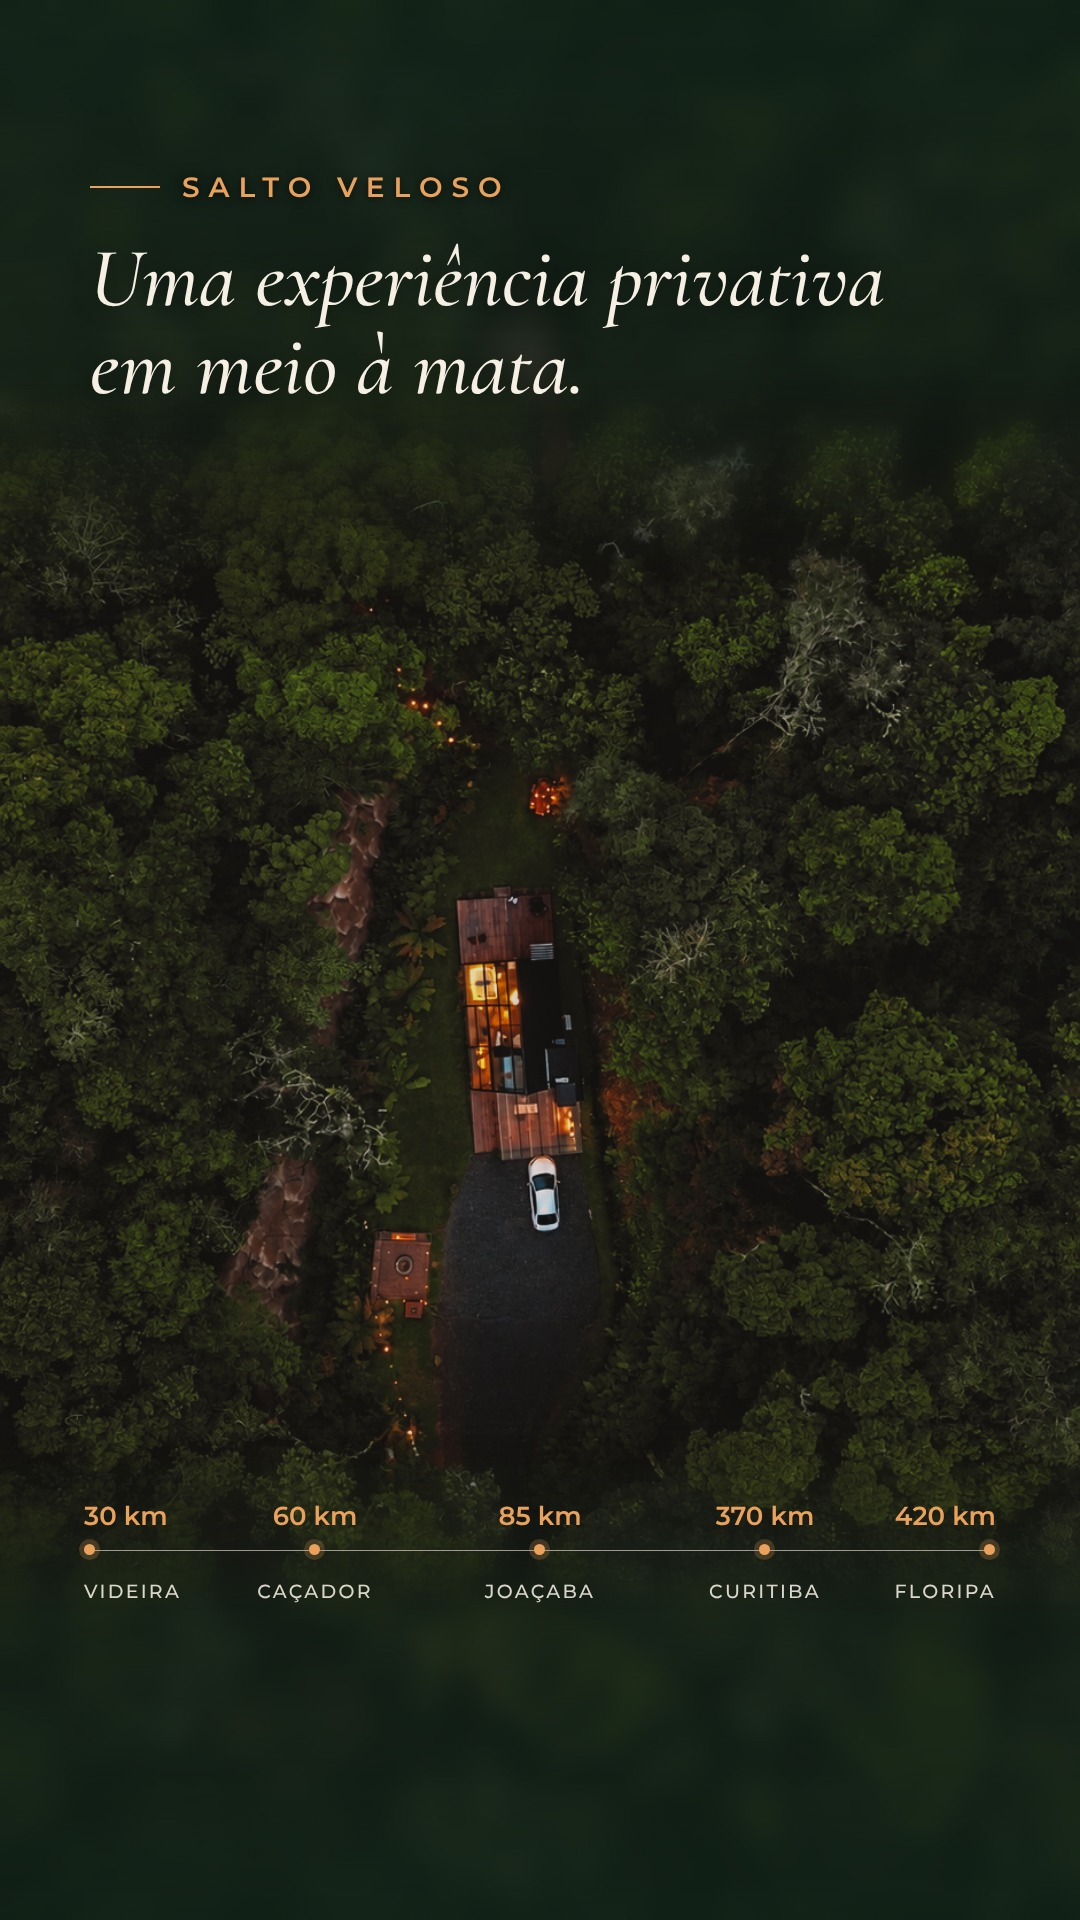
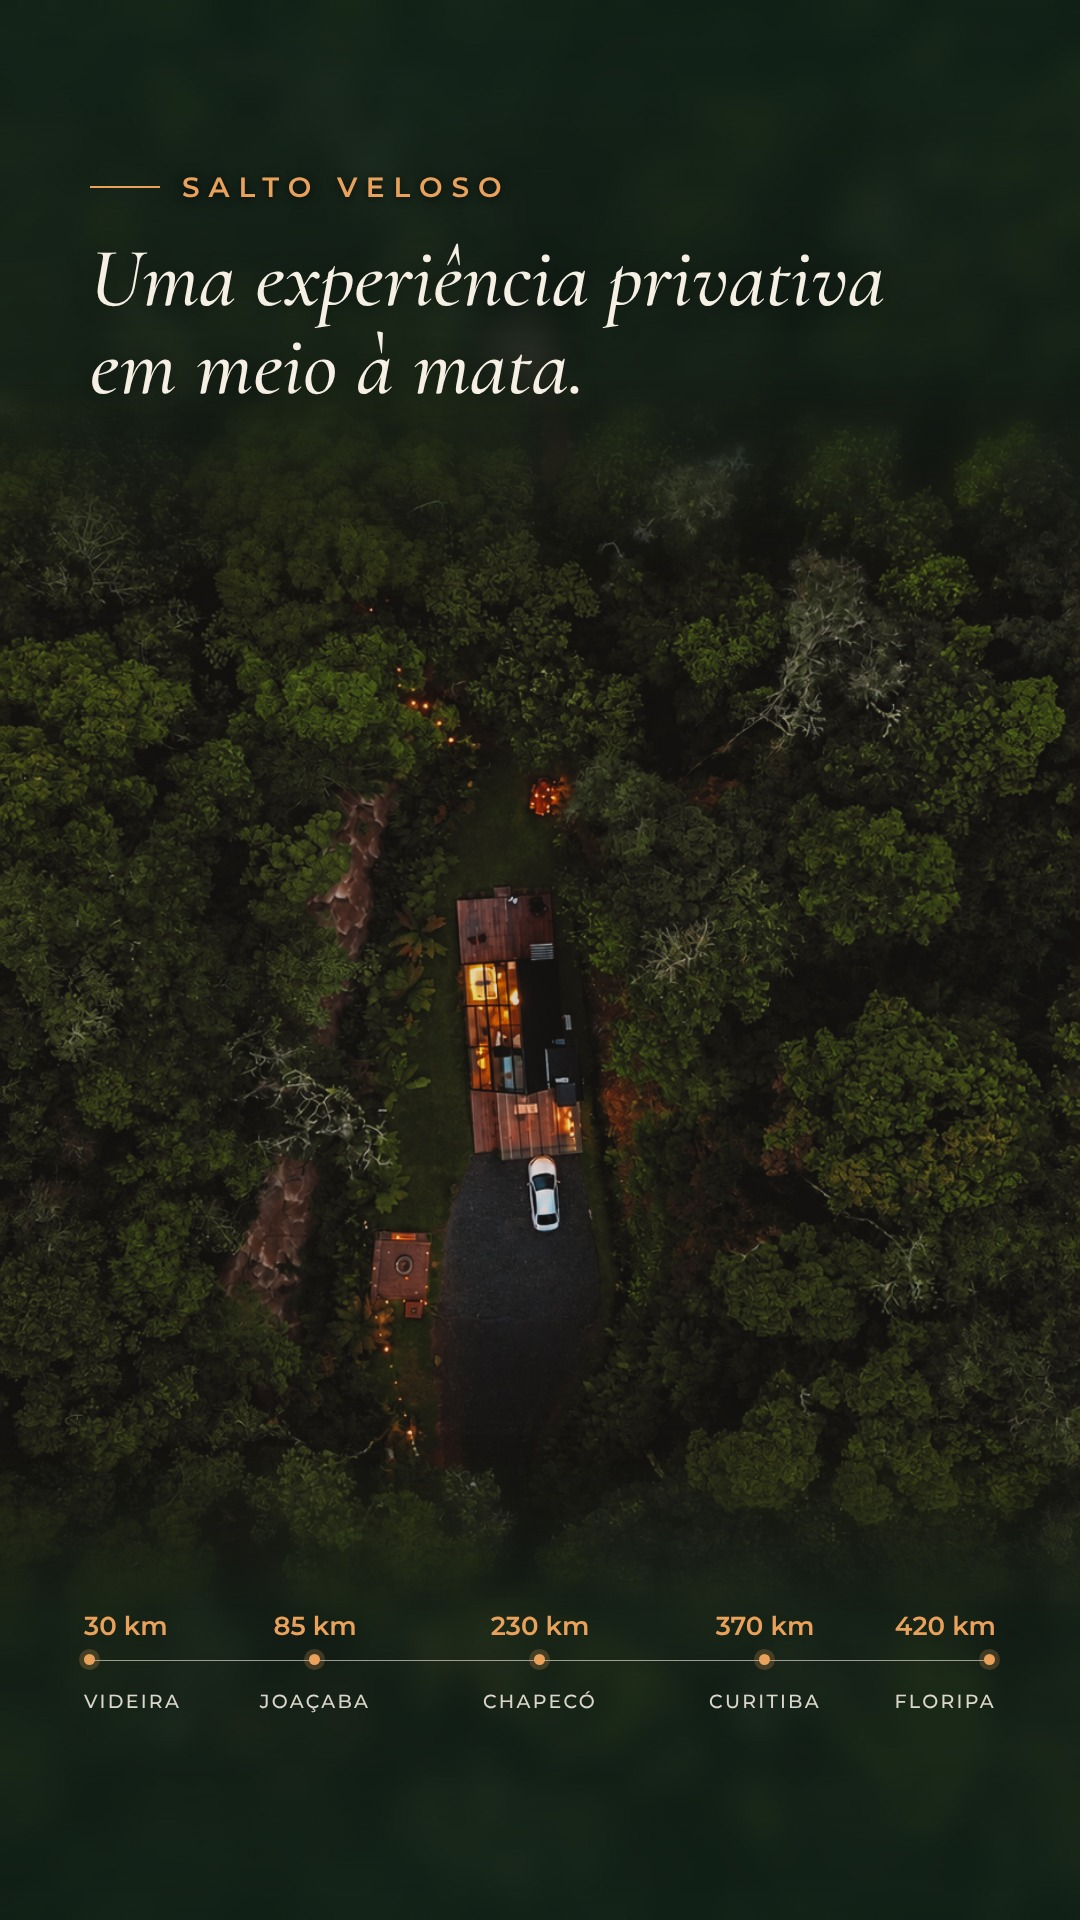
Story 1: Chapecó no lugar de Caçador e linha mais baixa
Claude-Session: https://claude.ai/code/session_01DGaSmMXhRVQXAQK6gDFrFo

diff --git a/stories-cabana/html/story-01.html b/stories-cabana/html/story-01.html
@@ -28,7 +28,7 @@ p { font-family:'Montserrat',sans-serif; font-weight:500; font-size:34px; line-h
 .cta { display:inline-flex; margin-top:38px; padding:22px 38px; border-radius:60px; background:#E9A15B;
   color:#1B140D; font-family:'Montserrat',sans-serif; font-weight:600; font-size:28px;
   letter-spacing:.14em; text-transform:uppercase; }
-.rodape { position:absolute; left:90px; right:90px; bottom:300px; color:#F6EFE4; height:120px; }
+.rodape { position:absolute; left:90px; right:90px; bottom:190px; color:#F6EFE4; height:120px; }
 .rodape .trilho { position:absolute; left:0; right:0; top:50px; height:1px; background:rgba(246,239,228,.6); }
 .rodape .pt { position:absolute; top:0; height:120px; font-family:'Montserrat',sans-serif; white-space:nowrap; }
 .rodape .pt::before { content:''; position:absolute; top:44px; left:-6px; width:11px; height:11px; border-radius:50%;
@@ -42,7 +42,7 @@ p { font-family:'Montserrat',sans-serif; font-weight:500; font-size:34px; line-h
   border-radius:10px; border:6px solid #F6EFE4; box-shadow:0 18px 50px rgba(0,0,0,.45); transform:rotate(-3deg); }
 </style></head><body>
 <img class="bg" src="file:///home/user/Jean-Radeski-/stories-cabana/fotos/drone.jpg" style="object-position:center;transform:translateY(0px)">
-<div class="blur low" style="height:500px"></div><div class="rodape"><div class="trilho"></div><div class="pt first" style="left:0.0%"><span class="km">30 km</span><span class="nome">Videira</span></div><div class="pt " style="left:25.0%"><span class="km">60 km</span><span class="nome">Caçador</span></div><div class="pt " style="left:50.0%"><span class="km">85 km</span><span class="nome">Joaçaba</span></div><div class="pt " style="left:75.0%"><span class="km">370 km</span><span class="nome">Curitiba</span></div><div class="pt last" style="left:100.0%"><span class="km">420 km</span><span class="nome">Floripa</span></div></div>
+<div class="blur low" style="height:500px"></div><div class="rodape"><div class="trilho"></div><div class="pt first" style="left:0.0%"><span class="km">30 km</span><span class="nome">Videira</span></div><div class="pt " style="left:25.0%"><span class="km">85 km</span><span class="nome">Joaçaba</span></div><div class="pt " style="left:50.0%"><span class="km">230 km</span><span class="nome">Chapecó</span></div><div class="pt " style="left:75.0%"><span class="km">370 km</span><span class="nome">Curitiba</span></div><div class="pt last" style="left:100.0%"><span class="km">420 km</span><span class="nome">Floripa</span></div></div>
 <div class="blur top" style="height:620px"></div>
 
 <div class="box top"><div class="kicker">Salto Veloso</div><h1>Uma experiência privativa<br>em meio à mata.</h1></div>

diff --git a/stories-cabana/html/story-02.html b/stories-cabana/html/story-02.html
@@ -28,7 +28,7 @@ p { font-family:'Montserrat',sans-serif; font-weight:500; font-size:34px; line-h
 .cta { display:inline-flex; margin-top:38px; padding:22px 38px; border-radius:60px; background:#E9A15B;
   color:#1B140D; font-family:'Montserrat',sans-serif; font-weight:600; font-size:28px;
   letter-spacing:.14em; text-transform:uppercase; }
-.rodape { position:absolute; left:90px; right:90px; bottom:300px; color:#F6EFE4; height:120px; }
+.rodape { position:absolute; left:90px; right:90px; bottom:190px; color:#F6EFE4; height:120px; }
 .rodape .trilho { position:absolute; left:0; right:0; top:50px; height:1px; background:rgba(246,239,228,.6); }
 .rodape .pt { position:absolute; top:0; height:120px; font-family:'Montserrat',sans-serif; white-space:nowrap; }
 .rodape .pt::before { content:''; position:absolute; top:44px; left:-6px; width:11px; height:11px; border-radius:50%;

diff --git a/stories-cabana/html/story-03.html b/stories-cabana/html/story-03.html
@@ -28,7 +28,7 @@ p { font-family:'Montserrat',sans-serif; font-weight:500; font-size:34px; line-h
 .cta { display:inline-flex; margin-top:38px; padding:22px 38px; border-radius:60px; background:#E9A15B;
   color:#1B140D; font-family:'Montserrat',sans-serif; font-weight:600; font-size:28px;
   letter-spacing:.14em; text-transform:uppercase; }
-.rodape { position:absolute; left:90px; right:90px; bottom:300px; color:#F6EFE4; height:120px; }
+.rodape { position:absolute; left:90px; right:90px; bottom:190px; color:#F6EFE4; height:120px; }
 .rodape .trilho { position:absolute; left:0; right:0; top:50px; height:1px; background:rgba(246,239,228,.6); }
 .rodape .pt { position:absolute; top:0; height:120px; font-family:'Montserrat',sans-serif; white-space:nowrap; }
 .rodape .pt::before { content:''; position:absolute; top:44px; left:-6px; width:11px; height:11px; border-radius:50%;

diff --git a/stories-cabana/html/story-04.html b/stories-cabana/html/story-04.html
@@ -28,7 +28,7 @@ p { font-family:'Montserrat',sans-serif; font-weight:500; font-size:34px; line-h
 .cta { display:inline-flex; margin-top:38px; padding:22px 38px; border-radius:60px; background:#E9A15B;
   color:#1B140D; font-family:'Montserrat',sans-serif; font-weight:600; font-size:28px;
   letter-spacing:.14em; text-transform:uppercase; }
-.rodape { position:absolute; left:90px; right:90px; bottom:300px; color:#F6EFE4; height:120px; }
+.rodape { position:absolute; left:90px; right:90px; bottom:190px; color:#F6EFE4; height:120px; }
 .rodape .trilho { position:absolute; left:0; right:0; top:50px; height:1px; background:rgba(246,239,228,.6); }
 .rodape .pt { position:absolute; top:0; height:120px; font-family:'Montserrat',sans-serif; white-space:nowrap; }
 .rodape .pt::before { content:''; position:absolute; top:44px; left:-6px; width:11px; height:11px; border-radius:50%;

diff --git a/stories-cabana/html/story-05.html b/stories-cabana/html/story-05.html
@@ -28,7 +28,7 @@ p { font-family:'Montserrat',sans-serif; font-weight:500; font-size:34px; line-h
 .cta { display:inline-flex; margin-top:38px; padding:22px 38px; border-radius:60px; background:#E9A15B;
   color:#1B140D; font-family:'Montserrat',sans-serif; font-weight:600; font-size:28px;
   letter-spacing:.14em; text-transform:uppercase; }
-.rodape { position:absolute; left:90px; right:90px; bottom:300px; color:#F6EFE4; height:120px; }
+.rodape { position:absolute; left:90px; right:90px; bottom:190px; color:#F6EFE4; height:120px; }
 .rodape .trilho { position:absolute; left:0; right:0; top:50px; height:1px; background:rgba(246,239,228,.6); }
 .rodape .pt { position:absolute; top:0; height:120px; font-family:'Montserrat',sans-serif; white-space:nowrap; }
 .rodape .pt::before { content:''; position:absolute; top:44px; left:-6px; width:11px; height:11px; border-radius:50%;

diff --git a/stories-cabana/html/story-06.html b/stories-cabana/html/story-06.html
@@ -28,7 +28,7 @@ p { font-family:'Montserrat',sans-serif; font-weight:500; font-size:34px; line-h
 .cta { display:inline-flex; margin-top:38px; padding:22px 38px; border-radius:60px; background:#E9A15B;
   color:#1B140D; font-family:'Montserrat',sans-serif; font-weight:600; font-size:28px;
   letter-spacing:.14em; text-transform:uppercase; }
-.rodape { position:absolute; left:90px; right:90px; bottom:300px; color:#F6EFE4; height:120px; }
+.rodape { position:absolute; left:90px; right:90px; bottom:190px; color:#F6EFE4; height:120px; }
 .rodape .trilho { position:absolute; left:0; right:0; top:50px; height:1px; background:rgba(246,239,228,.6); }
 .rodape .pt { position:absolute; top:0; height:120px; font-family:'Montserrat',sans-serif; white-space:nowrap; }
 .rodape .pt::before { content:''; position:absolute; top:44px; left:-6px; width:11px; height:11px; border-radius:50%;

diff --git a/stories-cabana/html/story-07.html b/stories-cabana/html/story-07.html
@@ -28,7 +28,7 @@ p { font-family:'Montserrat',sans-serif; font-weight:500; font-size:34px; line-h
 .cta { display:inline-flex; margin-top:38px; padding:22px 38px; border-radius:60px; background:#E9A15B;
   color:#1B140D; font-family:'Montserrat',sans-serif; font-weight:600; font-size:28px;
   letter-spacing:.14em; text-transform:uppercase; }
-.rodape { position:absolute; left:90px; right:90px; bottom:300px; color:#F6EFE4; height:120px; }
+.rodape { position:absolute; left:90px; right:90px; bottom:190px; color:#F6EFE4; height:120px; }
 .rodape .trilho { position:absolute; left:0; right:0; top:50px; height:1px; background:rgba(246,239,228,.6); }
 .rodape .pt { position:absolute; top:0; height:120px; font-family:'Montserrat',sans-serif; white-space:nowrap; }
 .rodape .pt::before { content:''; position:absolute; top:44px; left:-6px; width:11px; height:11px; border-radius:50%;

diff --git a/stories-cabana/html/story-08.html b/stories-cabana/html/story-08.html
@@ -28,7 +28,7 @@ p { font-family:'Montserrat',sans-serif; font-weight:500; font-size:34px; line-h
 .cta { display:inline-flex; margin-top:38px; padding:22px 38px; border-radius:60px; background:#E9A15B;
   color:#1B140D; font-family:'Montserrat',sans-serif; font-weight:600; font-size:28px;
   letter-spacing:.14em; text-transform:uppercase; }
-.rodape { position:absolute; left:90px; right:90px; bottom:300px; color:#F6EFE4; height:120px; }
+.rodape { position:absolute; left:90px; right:90px; bottom:190px; color:#F6EFE4; height:120px; }
 .rodape .trilho { position:absolute; left:0; right:0; top:50px; height:1px; background:rgba(246,239,228,.6); }
 .rodape .pt { position:absolute; top:0; height:120px; font-family:'Montserrat',sans-serif; white-space:nowrap; }
 .rodape .pt::before { content:''; position:absolute; top:44px; left:-6px; width:11px; height:11px; border-radius:50%;

diff --git a/stories-cabana/html/story-09.html b/stories-cabana/html/story-09.html
@@ -28,7 +28,7 @@ p { font-family:'Montserrat',sans-serif; font-weight:500; font-size:34px; line-h
 .cta { display:inline-flex; margin-top:38px; padding:22px 38px; border-radius:60px; background:#E9A15B;
   color:#1B140D; font-family:'Montserrat',sans-serif; font-weight:600; font-size:28px;
   letter-spacing:.14em; text-transform:uppercase; }
-.rodape { position:absolute; left:90px; right:90px; bottom:300px; color:#F6EFE4; height:120px; }
+.rodape { position:absolute; left:90px; right:90px; bottom:190px; color:#F6EFE4; height:120px; }
 .rodape .trilho { position:absolute; left:0; right:0; top:50px; height:1px; background:rgba(246,239,228,.6); }
 .rodape .pt { position:absolute; top:0; height:120px; font-family:'Montserrat',sans-serif; white-space:nowrap; }
 .rodape .pt::before { content:''; position:absolute; top:44px; left:-6px; width:11px; height:11px; border-radius:50%;

diff --git a/stories-cabana/html/story-10.html b/stories-cabana/html/story-10.html
@@ -28,7 +28,7 @@ p { font-family:'Montserrat',sans-serif; font-weight:500; font-size:34px; line-h
 .cta { display:inline-flex; margin-top:38px; padding:22px 38px; border-radius:60px; background:#E9A15B;
   color:#1B140D; font-family:'Montserrat',sans-serif; font-weight:600; font-size:28px;
   letter-spacing:.14em; text-transform:uppercase; }
-.rodape { position:absolute; left:90px; right:90px; bottom:300px; color:#F6EFE4; height:120px; }
+.rodape { position:absolute; left:90px; right:90px; bottom:190px; color:#F6EFE4; height:120px; }
 .rodape .trilho { position:absolute; left:0; right:0; top:50px; height:1px; background:rgba(246,239,228,.6); }
 .rodape .pt { position:absolute; top:0; height:120px; font-family:'Montserrat',sans-serif; white-space:nowrap; }
 .rodape .pt::before { content:''; position:absolute; top:44px; left:-6px; width:11px; height:11px; border-radius:50%;

diff --git a/stories-cabana/html/story-11.html b/stories-cabana/html/story-11.html
@@ -28,7 +28,7 @@ p { font-family:'Montserrat',sans-serif; font-weight:500; font-size:34px; line-h
 .cta { display:inline-flex; margin-top:38px; padding:22px 38px; border-radius:60px; background:#E9A15B;
   color:#1B140D; font-family:'Montserrat',sans-serif; font-weight:600; font-size:28px;
   letter-spacing:.14em; text-transform:uppercase; }
-.rodape { position:absolute; left:90px; right:90px; bottom:300px; color:#F6EFE4; height:120px; }
+.rodape { position:absolute; left:90px; right:90px; bottom:190px; color:#F6EFE4; height:120px; }
 .rodape .trilho { position:absolute; left:0; right:0; top:50px; height:1px; background:rgba(246,239,228,.6); }
 .rodape .pt { position:absolute; top:0; height:120px; font-family:'Montserrat',sans-serif; white-space:nowrap; }
 .rodape .pt::before { content:''; position:absolute; top:44px; left:-6px; width:11px; height:11px; border-radius:50%;

diff --git a/stories-cabana/gerar.py b/stories-cabana/gerar.py
@@ -17,7 +17,7 @@ HTML.mkdir(exist_ok=True)
 STORIES = [
     ("drone.jpg", "center", "top", "Salto Veloso",
      "Uma experiência privativa<br>em meio à mata.", "",
-     {"rodape": [("Videira", "30 km"), ("Caçador", "60 km"), ("Joaçaba", "85 km"),
+     {"rodape": [("Videira", "30 km"), ("Joaçaba", "85 km"), ("Chapecó", "230 km"),
                  ("Curitiba", "370 km"), ("Floripa", "420 km")]}),
     ("ponte.jpg", "center 40%", "low", "O caminho",
      "Atravesse a ponte.", "Todo o ambiente cercado pela natureza.", {}),
@@ -73,7 +73,7 @@ p { font-family:'Montserrat',sans-serif; font-weight:500; font-size:34px; line-h
 .cta { display:inline-flex; margin-top:38px; padding:22px 38px; border-radius:60px; background:#E9A15B;
   color:#1B140D; font-family:'Montserrat',sans-serif; font-weight:600; font-size:28px;
   letter-spacing:.14em; text-transform:uppercase; }
-.rodape { position:absolute; left:90px; right:90px; bottom:300px; color:#F6EFE4; height:120px; }
+.rodape { position:absolute; left:90px; right:90px; bottom:190px; color:#F6EFE4; height:120px; }
 .rodape .trilho { position:absolute; left:0; right:0; top:50px; height:1px; background:rgba(246,239,228,.6); }
 .rodape .pt { position:absolute; top:0; height:120px; font-family:'Montserrat',sans-serif; white-space:nowrap; }
 .rodape .pt::before { content:''; position:absolute; top:44px; left:-6px; width:11px; height:11px; border-radius:50%;
